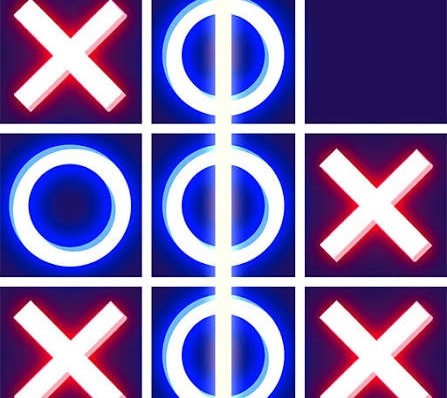
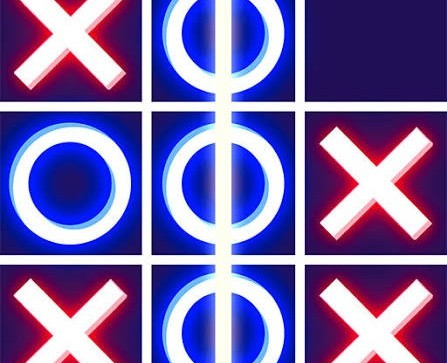
Updated project

diff --git a/src/components/Projects/Projects.jsx b/src/components/Projects/Projects.jsx
@@ -7,6 +7,7 @@ import Project5 from "../../assets/project5.png";
 import Project6 from "../../assets/project6.jpg";
 import Project7 from "../../assets/project7.png";
 import Project8 from "../../assets/project8.jpeg";
+import Project9 from "../../assets/project9.jpeg";
 
 import "./Projects.css";
 
@@ -77,8 +78,17 @@ const projectsData = [
   description:
     "A modern Tic Tac Toe game with turn-based gameplay, winning line animation, responsive UI, and game reset functionality.",
   image: Project8,
-  liveLink: "https://your-tictactoe-link.vercel.app/",
+  liveLink: "https://tic-tac-two-nu.vercel.app/",
   tech: ["React JS", "CSS3"],
+},
+{
+  id: 9,
+  title: "Weather  App with Live API Integration",
+  description:
+    "A responsive weather application that provides real-time temperature, humidity, wind speed, weather conditions, and city-based forecasts using live API data.",
+  image: Project9,
+  liveLink: "https://weather-app-gamma-three-59.vercel.app/",
+  tech: ["React JS", "Tailwind CSS", "Axios", "OpenWeather API"],
 },
 ];
 